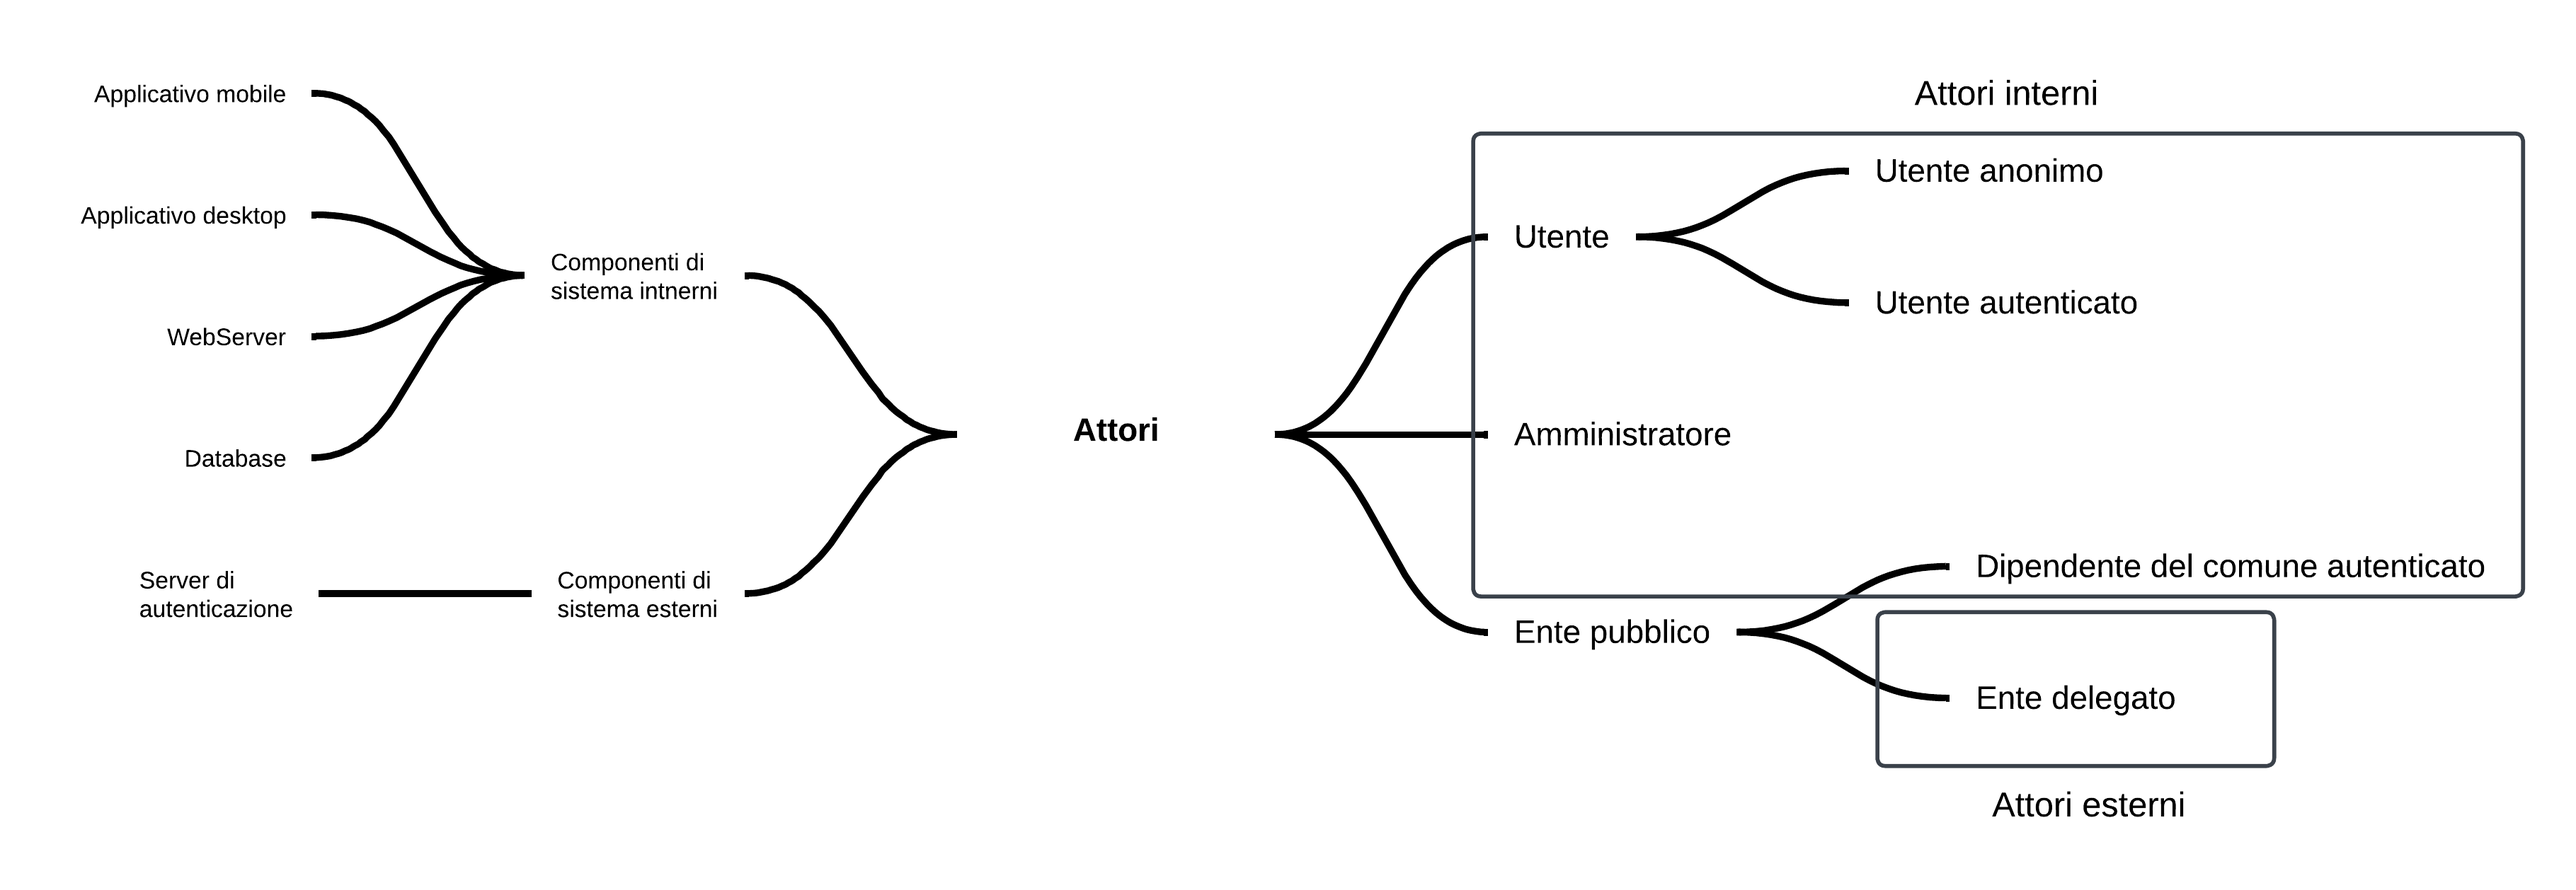
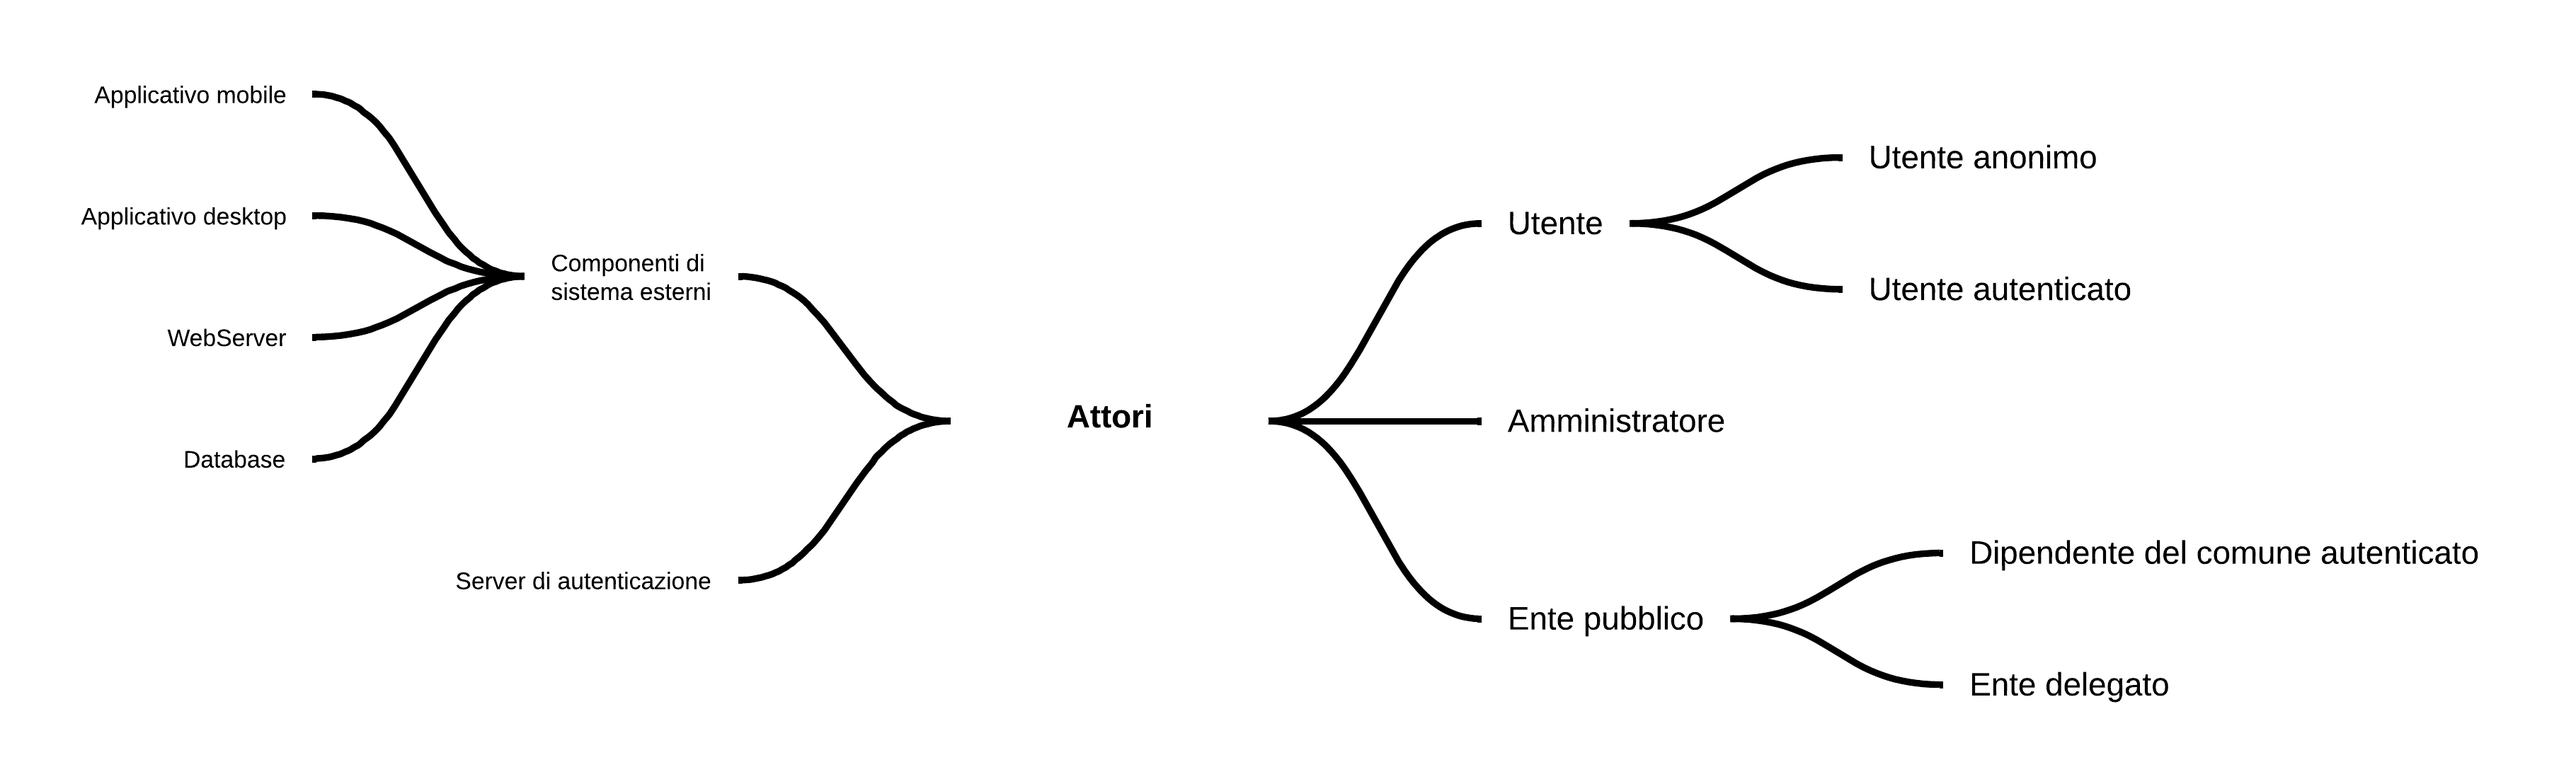
New image

diff --git a/Deliverable-1/deliverable1.tex b/Deliverable-1/deliverable1.tex
@@ -108,8 +108,8 @@ Ogni variazione inserita nel sistema dall'amministrazione sarà associata alla z
 \section{Attori di sistema e Mind map}
 \index{Attori di sistema e Mind map} % Aggiunge una voce all'indice
 
-\subsection{Attori di sistema Interni}
-\index{Attori di sistema Interni}
+\subsection{Utenti Interni}
+\index{Utenti Interni}
 
 \subsubsection{Utente anonimo}\label{Attori_UtenteAnonimo}
 \index{Utente anonimo} % Aggiunge una voce all'indice
@@ -163,8 +163,8 @@ Ognuna con utenti autenticati.
 \label{3.3.4}
 Il database è il componente che si occupa di memorizzare tutti i dati relativi sia agli eventi e alle variazioni della viabilità che agli utenti autenticati per garantire sincronizzazione.
 
-\subsection{Componenti di sistema Esterni}
-\index{Componenti di sistema Esterni}
+\subsection{Utenti Esterni}
+\index{Utenti Esterni}
 
 \subsubsection{Server di autenticazione}
 \index{Server di autenticazione}
